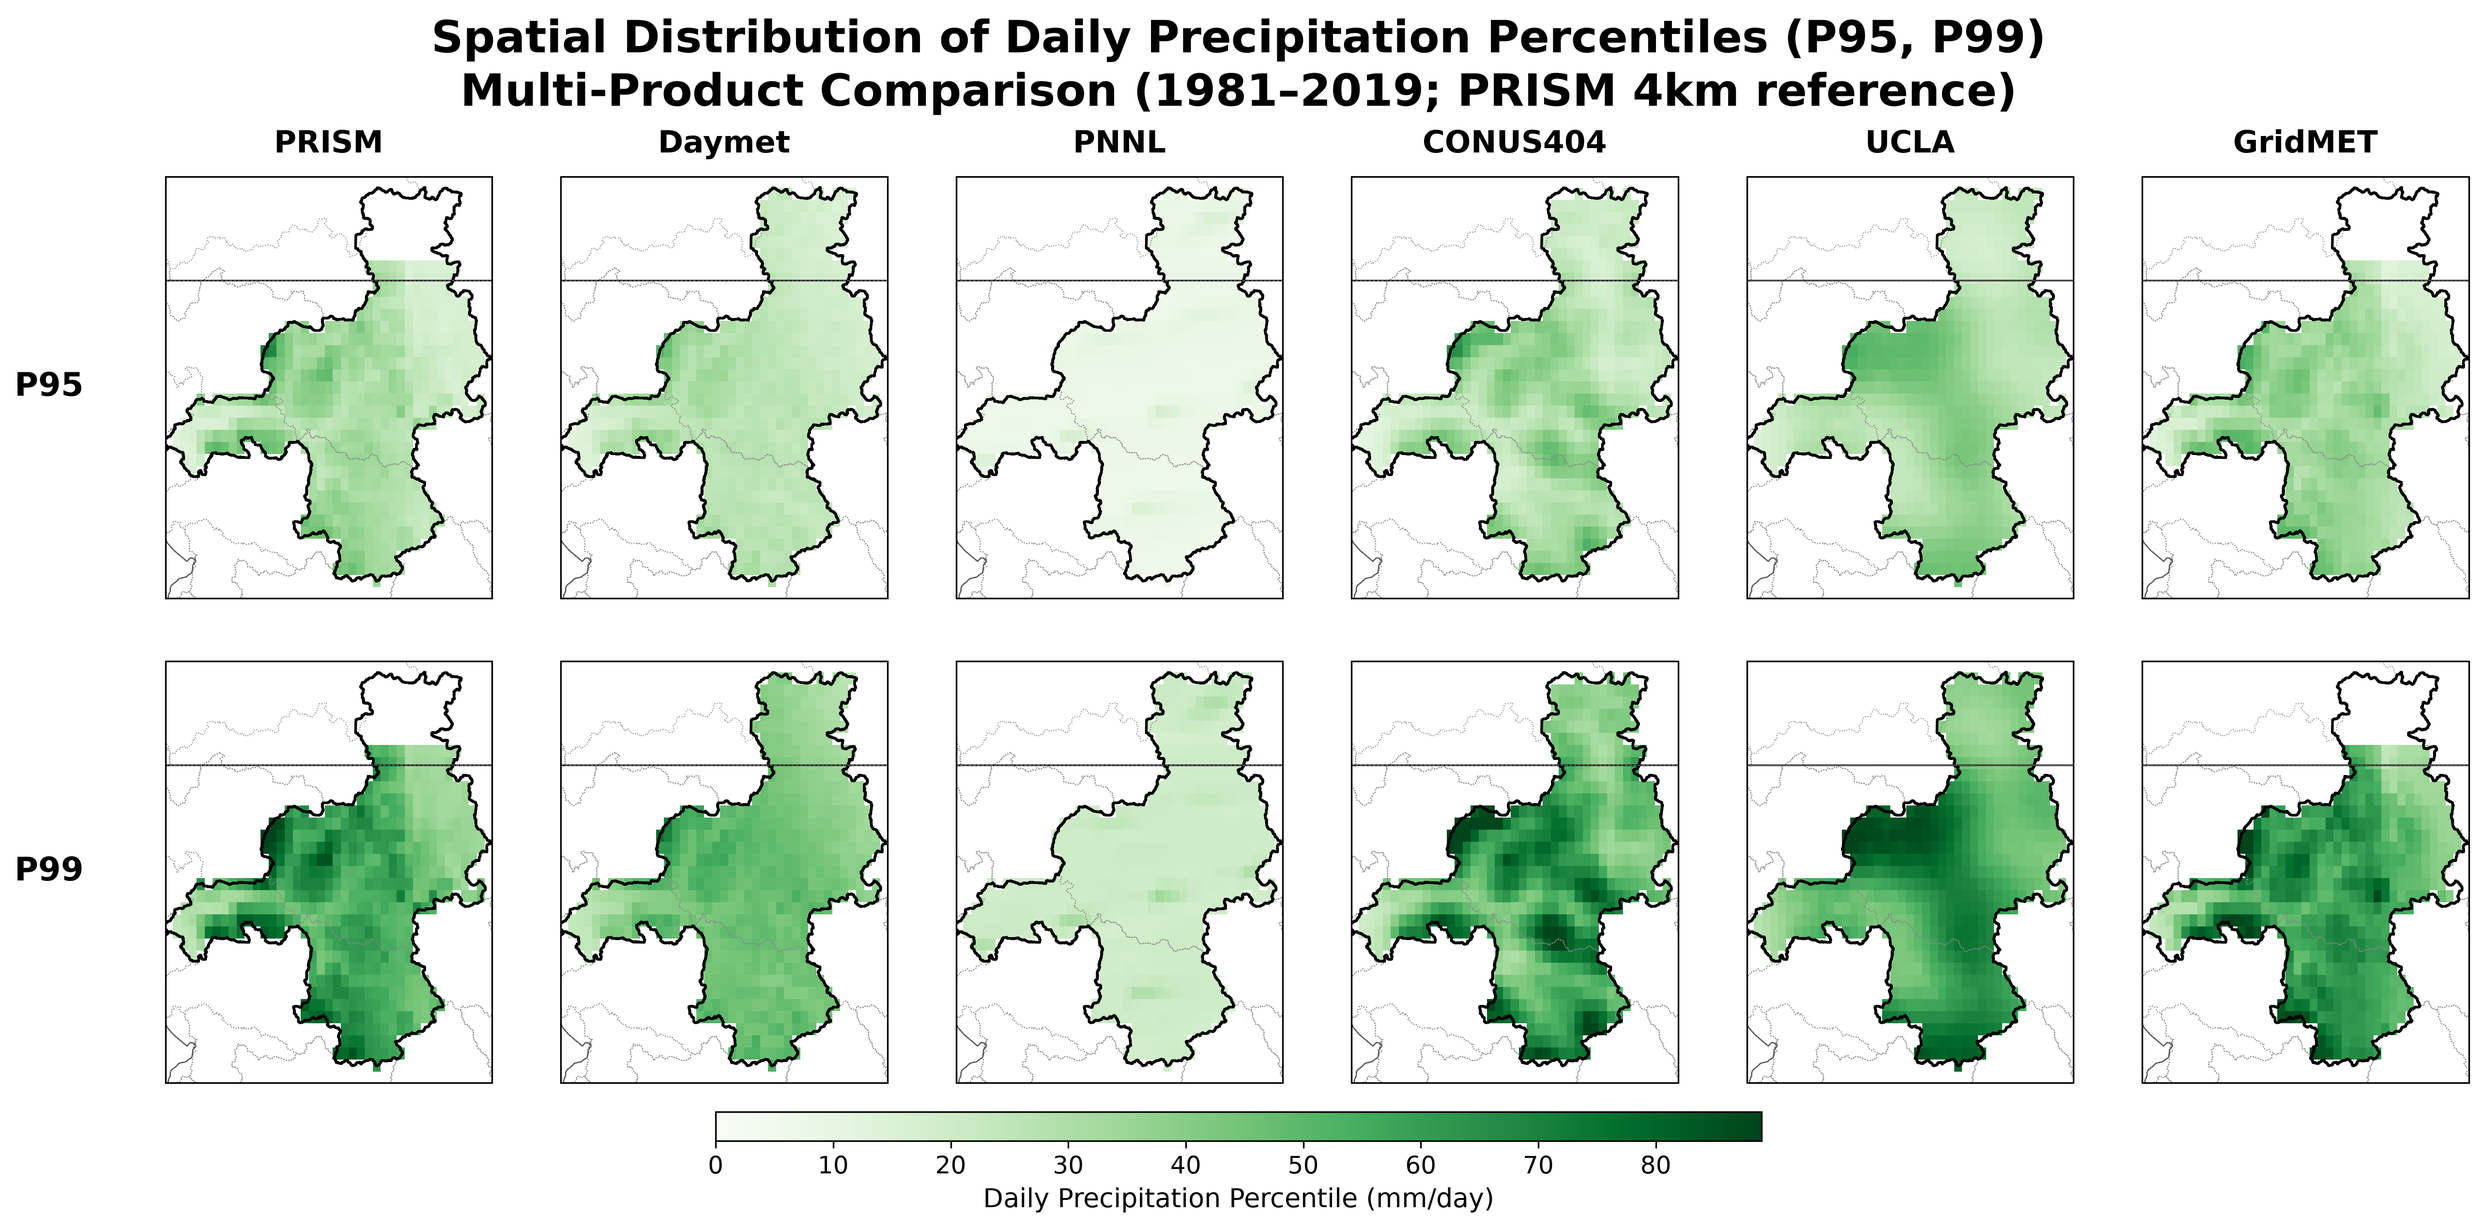
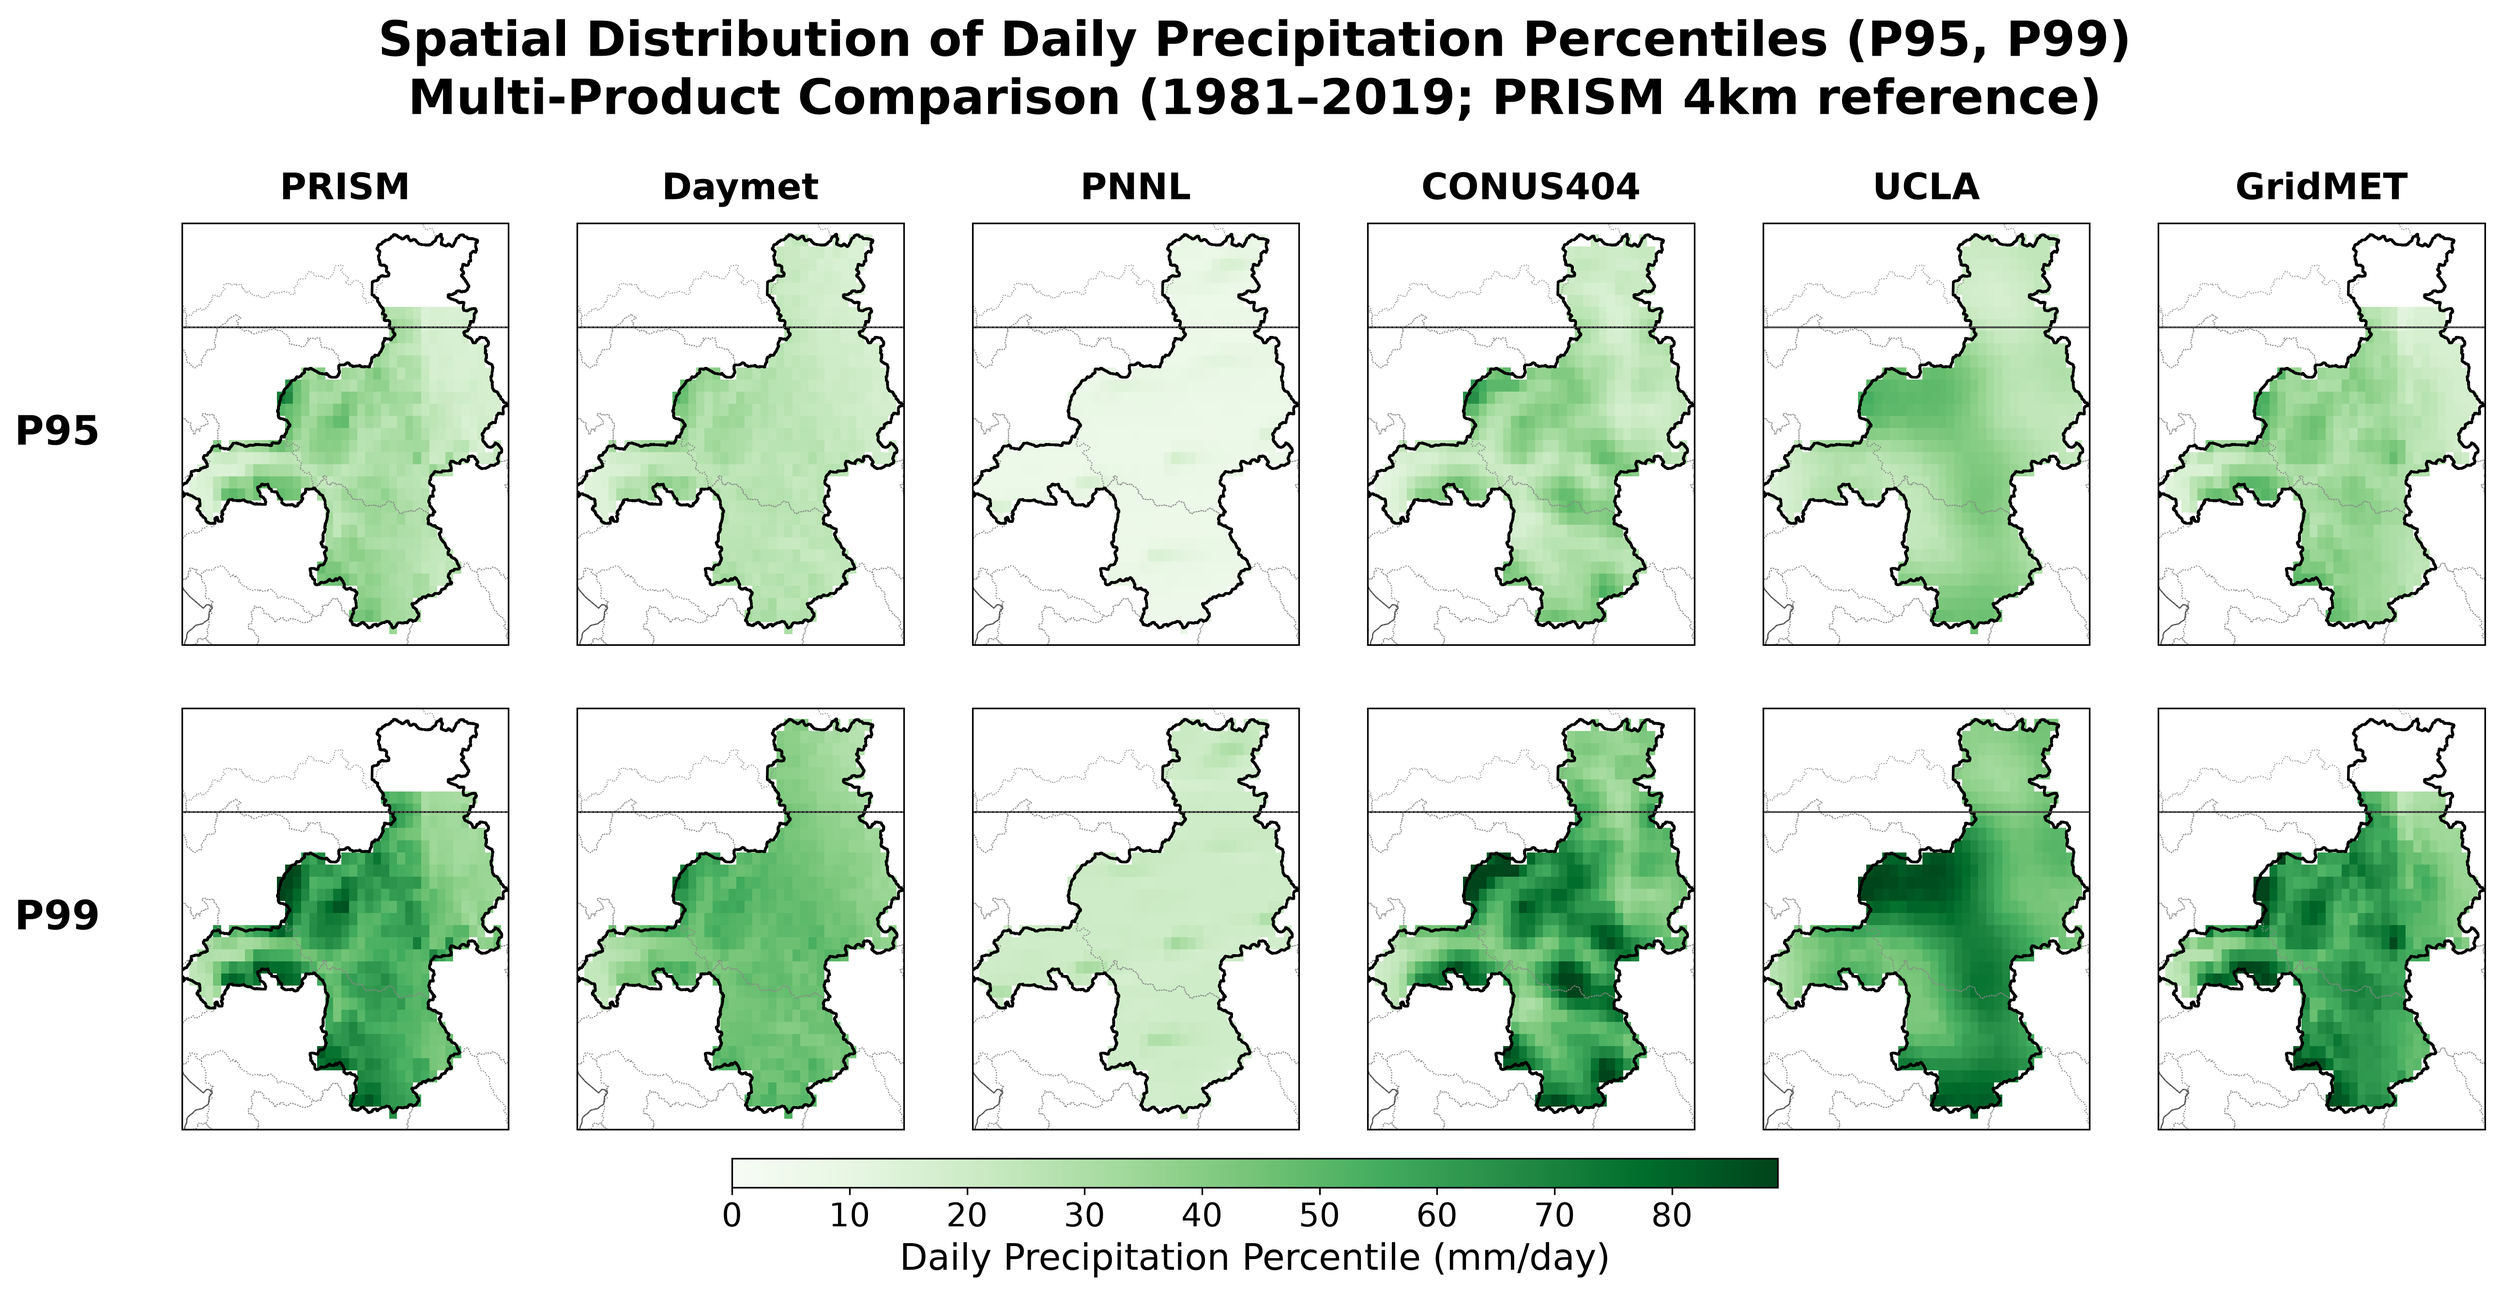
Updating plots for publication

diff --git a/skagit_met_for_publication/plots/spatial_bias_distribution/plot_ar_events_cumulative_spatial_bias_grid_8_days_updated.py b/skagit_met_for_publication/plots/spatial_bias_distribution/plot_ar_events_cumulative_spatial_bias_grid_8_days_updated.py
@@ -51,8 +51,8 @@ os.makedirs(OUT_DIR, exist_ok=True)
 
 AR_EVENTS = [
     {"label": "November_1990_AR5",   "start": "1990-11-22", "end": "1990-11-29", "row_label": "Nov 22–29, 1990\n(AR5)"},
-    {"label": "November_1995_AR4",  "start": "1995-11-27", "end": "1995-12-04", "row_label": "Nov 27–Dec 4, 1995\n(AR4)"},
-    {"label": "November_1990_AR4",  "start": "1990-11-08", "end": "1990-11-15", "row_label": "Nov 8–15, 1990\n(AR4)"},
+    {"label": "November_1995_AR4",  "start": "1995-11-28", "end": "1995-12-05", "row_label": "Nov 28–Dec 5, 1995\n(AR4)"}, #{"label": "November_1995_AR4",  "start": "1995-11-27", "end": "1995-12-04", "row_label": "Nov 27–Dec 4, 1995\n(AR4)"},
+    {"label": "November_1990_AR4",  "start": "1990-11-11", "end": "1990-11-18", "row_label": "Nov 11–18, 1990\n(AR4)"}, #{"label": "November_1990_AR4",  "start": "1990-11-08", "end": "1990-11-15", "row_label": "Nov 8–15, 1990\n(AR4)"},
     {"label": "November_2006_AR5",  "start": "2006-11-05", "end": "2006-11-12", "row_label": "Nov 5–12, 2006\n(AR5)"},
     {"label": "October_2003_AR5",  "start": "2003-10-19", "end": "2003-10-26", "row_label": "Oct 19–26, 2003\n(AR5)"},
     {"label": "November_2021_AR4",  "start": "2021-11-13", "end": "2021-11-20", "row_label": "Nov 13–20, 2021\n(AR4)"}
@@ -599,8 +599,16 @@ def main():
     print(f"Bias color range: {vmin_bias}–{vmax_bias} mm")
 
     # Plot grid: 6 rows × 5 columns (bias relative to PRISM)
+    # Publication font sizes (figure is ~15 in wide; expect ~0.45x reduction to journal page width)
+    FONT_SUPTITLE = 24
+    FONT_TITLE = 18       # column titles
+    FONT_ROW_LABEL = 18
+    FONT_CBAR_LABEL = 18
+    FONT_CBAR_TICK = 16
+    FONT_NA = 16
+
     plt.rcParams.update({
-        'font.size': 13,
+        'font.size': FONT_CBAR_LABEL,
         'font.family': 'sans-serif',
         'font.sans-serif': ['DejaVu Sans', 'Arial'],
     })
@@ -647,7 +655,7 @@ def main():
                 # Grey placeholder if product missing
                 ax.set_facecolor('#dddddd')
                 ax.text(0.5, 0.5, 'N/A', transform=ax.transAxes,
-                        ha='center', va='center', fontsize=12, color='#555555')
+                        ha='center', va='center', fontsize=FONT_NA, color='#555555')
 
             ax.set_extent(MAP_EXTENT, crs=ccrs.PlateCarree())
             ax.add_feature(cfeature.COASTLINE.with_scale('10m'), linewidth=0.6, edgecolor='#444444')
@@ -663,20 +671,20 @@ def main():
             # Row label on the first column
             if col_idx == 0:
                 ax.text(-0.25, 0.5, event['row_label'], transform=ax.transAxes,
-                        fontsize=16, fontweight='bold', va='center', ha='right')
+                        fontsize=FONT_ROW_LABEL, fontweight='bold', va='center', ha='right')
 
         # Column titles on the first row
         if row_idx == 0:
             for col_idx, prod in enumerate(BIAS_PRODUCTS):
                 label = f"{prod} - PRISM"
-                axes[0, col_idx].set_title(label, fontsize=16, fontweight='bold', pad=12)
+                axes[0, col_idx].set_title(label, fontsize=FONT_TITLE, fontweight='bold', pad=12)
 
     # Colorbar at the bottom of the grid
     if im is not None:
         cbar_ax = fig.add_axes([0.30, 0.05, 0.40, 0.02])
         cbar = fig.colorbar(im, cax=cbar_ax, orientation='horizontal',
                             label="Bias relative to PRISM (mm)")
-        cbar.ax.tick_params(labelsize=13)
+        cbar.ax.tick_params(labelsize=FONT_CBAR_TICK)
 
     plt.subplots_adjust(left=0.08, right=0.98, top=0.88, bottom=0.10, wspace=0.05, hspace=0.08)
 
@@ -691,7 +699,7 @@ def main():
         "Bias in Cumulative Precipitation during Atmospheric River Events\n"
         "Multi-Product Comparison (Bias relative to PRISM)\n"
         "(AR Event Day: 2 days after period start)",
-        fontsize=22, fontweight='bold', y=0.97
+        fontsize=FONT_SUPTITLE, fontweight='bold', y=0.99
     )
 
     out_png = os.path.join(OUT_DIR, "ar_events_cumulative_spatial_bias_grid_8_days.png")

diff --git a/skagit_met_for_publication/plots/spatial_bias_distribution/plot_spatial_percentiles.py b/skagit_met_for_publication/plots/spatial_bias_distribution/plot_spatial_percentiles.py
@@ -439,7 +439,7 @@ def main():
     mask_2d = inside.reshape(ref_lon.shape)
     
     # Check cache to avoid re-extracting large raw datasets
-    cache_path = os.path.join(OUT_DIR, "seasonal_avg_cache.pkl")
+    cache_path = os.path.join(OUT_DIR, "percentiles_cache.pkl")
     years = range(1981, 2020) # 1981 to 2019
     if os.path.exists(cache_path):
         print(f"Loading cached seasonal averages from {cache_path}...")
@@ -560,8 +560,15 @@ def main():
     
     # 7. Generate Figure 1: Products
     print("Plotting direct products...")
+    # Publication font sizes (figures are 16-18 in wide; expect ~0.4x reduction to journal page width)
+    FONT_SUPTITLE = 24
+    FONT_TITLE = 18       # column titles
+    FONT_ROW_LABEL = 20
+    FONT_CBAR_LABEL = 18
+    FONT_CBAR_TICK = 16
+
     plt.rcParams.update({
-        'font.size': 13,
+        'font.size': FONT_CBAR_LABEL,
         'font.family': 'sans-serif',
         'font.sans-serif': ['DejaVu Sans', 'Arial']
     })
@@ -595,22 +602,22 @@ def main():
             # Row label on first column
             if col_idx == 0:
                 ax.text(-0.25, 0.5, p_name, transform=ax.transAxes,
-                        fontsize=16, fontweight='bold', va='center', ha='right')
+                        fontsize=FONT_ROW_LABEL, fontweight='bold', va='center', ha='right')
 
         # Column titles
         if row_idx == 0:
             for col_idx, prod in enumerate(products):
-                axes1[0, col_idx].set_title(f"{prod}", fontsize=15, fontweight='bold', pad=12)
+                axes1[0, col_idx].set_title(f"{prod}", fontsize=FONT_TITLE, fontweight='bold', pad=12)
                 
     # Add colorbar at bottom of Fig 1
     cbar_ax1 = fig1.add_axes([0.30, 0.05, 0.40, 0.025])
     cbar1 = fig1.colorbar(im_precip, cax=cbar_ax1, orientation='horizontal',
                          label="Daily Precipitation Percentile (mm/day)")
-    cbar1.ax.tick_params(labelsize=12)
+    cbar1.ax.tick_params(labelsize=FONT_CBAR_TICK)
 
     plt.subplots_adjust(left=0.08, right=0.98, top=0.88, bottom=0.10, wspace=0.05, hspace=0.15)
     plt.suptitle("Spatial Distribution of Daily Precipitation Percentiles (P95, P99)\nMulti-Product Comparison (1981–2019; PRISM 4km reference)",
-                 fontsize=22, fontweight='bold', y=1.02)
+                 fontsize=FONT_SUPTITLE, fontweight='bold', y=1.06)
 
     print(f"Saving Products map to {OUT_PRODUCTS_IMG}...")
     plt.savefig(OUT_PRODUCTS_IMG, dpi=300, bbox_inches='tight')
@@ -647,23 +654,23 @@ def main():
             # Row label on first column
             if col_idx == 0:
                 ax.text(-0.25, 0.5, p_name, transform=ax.transAxes,
-                        fontsize=16, fontweight='bold', va='center', ha='right')
+                        fontsize=FONT_ROW_LABEL, fontweight='bold', va='center', ha='right')
 
         # Column titles
         if row_idx == 0:
             for col_idx, b in enumerate(biases):
                 label = f"{b} - PRISM"
-                axes2[0, col_idx].set_title(f"{label}", fontsize=15, fontweight='bold', pad=12)
+                axes2[0, col_idx].set_title(f"{label}", fontsize=FONT_TITLE, fontweight='bold', pad=12)
 
     # Add colorbar at bottom of Fig 2
     cbar_ax2 = fig2.add_axes([0.30, 0.05, 0.40, 0.025])
     cbar2 = fig2.colorbar(im_diff, cax=cbar_ax2, orientation='horizontal',
                          label="Bias in Precipitation Percentile (Product - PRISM, mm/day)")
-    cbar2.ax.tick_params(labelsize=12)
+    cbar2.ax.tick_params(labelsize=FONT_CBAR_TICK)
 
     plt.subplots_adjust(left=0.08, right=0.98, top=0.88, bottom=0.10, wspace=0.05, hspace=0.15)
     plt.suptitle("Spatial Distribution of Daily Precipitation Percentile Biases (P95, P99)\nProduct minus PRISM Baseline (1981–2019; PRISM 4km reference)",
-                 fontsize=22, fontweight='bold', y=1.02)
+                 fontsize=FONT_SUPTITLE, fontweight='bold', y=1.06)
 
     print(f"Saving Biases map to {OUT_BIASES_IMG}...")
     plt.savefig(OUT_BIASES_IMG, dpi=300, bbox_inches='tight')

diff --git a/skagit_met_for_publication/plots/spatial_bias_distribution/plot_spatial_seasonal_avg.py b/skagit_met_for_publication/plots/spatial_bias_distribution/plot_spatial_seasonal_avg.py
@@ -575,8 +575,15 @@ def main():
     
     # 7. Generate Figure 1: Products
     print("Plotting direct products...")
+    # Publication font sizes (figures are 16-18 in wide; expect ~0.4x reduction to journal page width)
+    FONT_SUPTITLE = 24
+    FONT_TITLE = 18       # column titles
+    FONT_ROW_LABEL = 20
+    FONT_CBAR_LABEL = 18
+    FONT_CBAR_TICK = 16
+
     plt.rcParams.update({
-        'font.size': 13,
+        'font.size': FONT_CBAR_LABEL,
         'font.family': 'sans-serif',
         'font.sans-serif': ['DejaVu Sans', 'Arial']
     })
@@ -610,23 +617,23 @@ def main():
             # Row label on first column
             if col_idx == 0:
                 ax.text(-0.25, 0.5, s_name, transform=ax.transAxes,
-                        fontsize=16, fontweight='bold', va='center', ha='right')
+                        fontsize=FONT_ROW_LABEL, fontweight='bold', va='center', ha='right')
                 
         # Column titles
         if row_idx == 0:
             for col_idx, prod in enumerate(products):
                 label = "ORNL (Daymet)" if prod == "ORNL" else prod
-                axes1[0, col_idx].set_title(f"{label}\n(1981–2019)", fontsize=15, fontweight='bold', pad=12)
+                axes1[0, col_idx].set_title(f"{label}\n(1981–2019)", fontsize=FONT_TITLE, fontweight='bold', pad=12)
                 
     # Add colorbar at bottom of Fig 1
     cbar_ax1 = fig1.add_axes([0.30, 0.05, 0.40, 0.025])
     cbar1 = fig1.colorbar(im_precip, cax=cbar_ax1, orientation='horizontal',
                          label="Average Seasonal Precipitation (mm/day)")
-    cbar1.ax.tick_params(labelsize=12)
+    cbar1.ax.tick_params(labelsize=FONT_CBAR_TICK)
     
     plt.subplots_adjust(left=0.08, right=0.98, top=0.84, bottom=0.10, wspace=0.05, hspace=0.08)
     plt.suptitle("Spatial Distribution of Seasonal Average Precipitation\nMulti-Product Comparison (1981–2019; PRISM 4km reference)",
-                 fontsize=22, fontweight='bold', y=0.97)
+                 fontsize=FONT_SUPTITLE, fontweight='bold', y=0.98)
 
     print(f"Saving Products map to {OUT_PRODUCTS_IMG}...")
     plt.savefig(OUT_PRODUCTS_IMG, dpi=300, bbox_inches='tight')
@@ -663,23 +670,23 @@ def main():
             # Row label on first column
             if col_idx == 0:
                 ax.text(-0.25, 0.5, s_name, transform=ax.transAxes,
-                        fontsize=16, fontweight='bold', va='center', ha='right')
+                        fontsize=FONT_ROW_LABEL, fontweight='bold', va='center', ha='right')
 
         # Column titles
         if row_idx == 0:
             for col_idx, b in enumerate(biases):
                 label = f"{b} - PRISM"
-                axes2[0, col_idx].set_title(f"{label}\n(1981–2019)", fontsize=15, fontweight='bold', pad=12)
+                axes2[0, col_idx].set_title(f"{label}\n(1981–2019)", fontsize=FONT_TITLE, fontweight='bold', pad=12)
 
     # Add colorbar at bottom of Fig 2
     cbar_ax2 = fig2.add_axes([0.30, 0.05, 0.40, 0.025])
     cbar2 = fig2.colorbar(im_diff, cax=cbar_ax2, orientation='horizontal',
                          label="Precipitation Bias relative to PRISM (Product - PRISM, mm/day)")
-    cbar2.ax.tick_params(labelsize=12)
+    cbar2.ax.tick_params(labelsize=FONT_CBAR_TICK)
 
     plt.subplots_adjust(left=0.08, right=0.98, top=0.84, bottom=0.10, wspace=0.05, hspace=0.08)
     plt.suptitle("Spatial Distribution of Seasonal Average Precipitation Biases\nProduct minus PRISM Baseline (1981–2019; PRISM 4km reference)",
-                 fontsize=22, fontweight='bold', y=0.97)
+                 fontsize=FONT_SUPTITLE, fontweight='bold', y=0.98)
 
     print(f"Saving Biases map to {OUT_BIASES_IMG}...")
     plt.savefig(OUT_BIASES_IMG, dpi=300, bbox_inches='tight')

diff --git a/skagit_met_for_publication/plots/spatial_bias_distribution/plot_non_ar_events_cumulative_spatial_bias_grid_8_days_updated.py b/skagit_met_for_publication/plots/spatial_bias_distribution/plot_non_ar_events_cumulative_spatial_bias_grid_8_days_updated.py
@@ -596,8 +596,16 @@ def main():
     print(f"Bias color range: {vmin_bias}–{vmax_bias} mm")
 
     # Plot grid: 6 rows × 5 columns (bias relative to PRISM)
+    # Publication font sizes (figure is ~15 in wide; expect ~0.45x reduction to journal page width)
+    FONT_SUPTITLE = 24
+    FONT_TITLE = 18       # column titles
+    FONT_ROW_LABEL = 18
+    FONT_CBAR_LABEL = 18
+    FONT_CBAR_TICK = 16
+    FONT_NA = 16
+
     plt.rcParams.update({
-        'font.size': 13,
+        'font.size': FONT_CBAR_LABEL,
         'font.family': 'sans-serif',
         'font.sans-serif': ['DejaVu Sans', 'Arial'],
     })
@@ -640,7 +648,7 @@ def main():
                 # Grey placeholder if product missing
                 ax.set_facecolor('#dddddd')
                 ax.text(0.5, 0.5, 'N/A', transform=ax.transAxes,
-                        ha='center', va='center', fontsize=12, color='#555555')
+                        ha='center', va='center', fontsize=FONT_NA, color='#555555')
 
             ax.set_extent(MAP_EXTENT, crs=ccrs.PlateCarree())
             ax.add_feature(cfeature.COASTLINE.with_scale('10m'), linewidth=0.6, edgecolor='#444444')
@@ -656,20 +664,20 @@ def main():
             # Row label on the first column
             if col_idx == 0:
                 ax.text(-0.25, 0.5, event['row_label'], transform=ax.transAxes,
-                        fontsize=16, fontweight='bold', va='center', ha='right')
+                        fontsize=FONT_ROW_LABEL, fontweight='bold', va='center', ha='right')
 
         # Column titles on the first row
         if row_idx == 0:
             for col_idx, prod in enumerate(BIAS_PRODUCTS):
                 label = f"{prod} - PRISM"
-                axes[0, col_idx].set_title(label, fontsize=16, fontweight='bold', pad=12)
+                axes[0, col_idx].set_title(label, fontsize=FONT_TITLE, fontweight='bold', pad=12)
 
     # Colorbar at the bottom of the grid
     if im is not None:
         cbar_ax = fig.add_axes([0.30, 0.05, 0.40, 0.02])
         cbar = fig.colorbar(im, cax=cbar_ax, orientation='horizontal',
                             label="Bias relative to PRISM (mm)")
-        cbar.ax.tick_params(labelsize=13)
+        cbar.ax.tick_params(labelsize=FONT_CBAR_TICK)
 
     plt.subplots_adjust(left=0.08, right=0.98, top=0.88, bottom=0.10, wspace=0.05, hspace=0.08)
 
@@ -684,7 +692,7 @@ def main():
         "Bias in Cumulative Precipitation during Non-Atmospheric River Events\n"
         "Multi-Product Comparison (Bias relative to PRISM)\n"
         "(Non-AR Event Day: 2 days after period start)",
-        fontsize=22, fontweight='bold', y=0.97
+        fontsize=FONT_SUPTITLE, fontweight='bold', y=0.99
     )
 
     out_png = os.path.join(OUT_DIR, "non_ar_events_cumulative_spatial_bias_grid_8_days.png")
